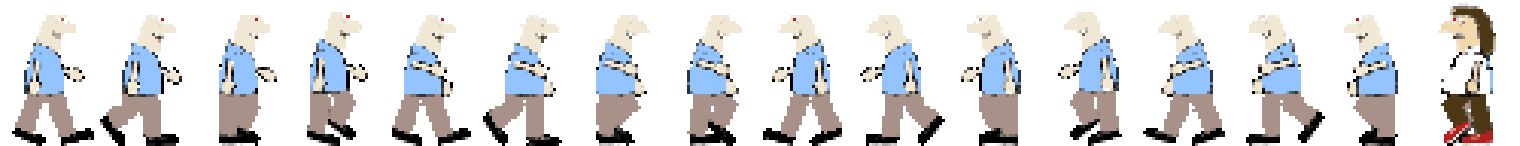
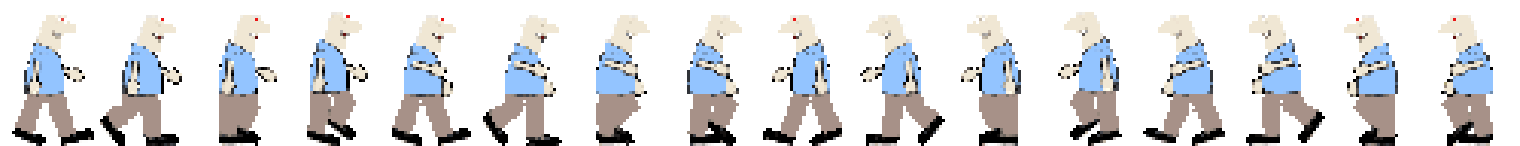
granne nu med patrullering

Changed region(s): [[0.9276, 0.0274, 0.9895, 1.0]]

diff --git a/DrunkiBoy/DrunkiBoy/Level/Enemies/AngryNeighbour.cs b/DrunkiBoy/DrunkiBoy/Level/Enemies/AngryNeighbour.cs
@@ -9,24 +9,46 @@ namespace DrunkiBoy
 {
     class AngryNeighbour : Enemy
     {
-        private int speed = 80;
-
+        private int speed = 100;
+        private bool facingRight;
         public AngryNeighbour(Vector2 pos, Texture2D tex, Rectangle srcRect, bool isActive, int nrFrames, double frameInterval)
             : base(pos, tex, srcRect, isActive, nrFrames, frameInterval)
         {
             this.type = "angryNeighbour";
 
             health = 2;
+            movement.X = 1;
+            movement.Y = 0;
         }
         public override void Update(GameTime gameTime)
         {
-            pos.X += (float)gameTime.ElapsedGameTime.TotalSeconds * speed;
-            if (activePlatform != null && pos.X >= activePlatform.pos.X)
+            pos += (float)gameTime.ElapsedGameTime.TotalSeconds * movement * speed;
+            if (activePlatform != null && (pos.X >= activePlatform.pos.X + activePlatform.BoundingBox.Width - 57 || pos.X <= activePlatform.pos.X))
             {
-                speed -= -1;
+                movement.X *= -1;
+                facingRight = !facingRight;
             }
             base.Update(gameTime);
             AddGravity();
-        }      
+            CheckIfOnPlatform();
+            if (facingRight)
+            {
+                facing = 0;
+            }
+            else
+            {
+                facing = 1;
+            }
+        }
+        private void CheckIfOnPlatform()
+        {
+            if (activePlatform != null)
+            {
+                if (!(BottomBoundingBox.Intersects(activePlatform.TopBoundingBox)))
+                {
+                    activePlatform = null;
+                }
+            }
+        }
     }
 }

diff --git a/DrunkiBoy/DrunkiBoy/Level/AnimatedObject.cs b/DrunkiBoy/DrunkiBoy/Level/AnimatedObject.cs
@@ -48,18 +48,5 @@ namespace DrunkiBoy
         {
             movement.Y += 0.6f;
         }
-        
-        /// <summary>
-        /// Returns true when object is outside of the visible screen
-        /// </summary>
-        /// <returns></returns>
-        //public bool OutOfBounds()
-        //{
-        //    if (pos.X < -(Game1.windowWidth / 2) + srcRect.Width || pos.X > Level.currentLevel.levelLength - srcRect.Width || pos.Y > Game1.windowHeight / 2) //Level ännu inte skapad
-        //    {
-        //        return true;
-        //    }
-        //    return false;
-        //}
     }
 }

diff --git a/DrunkiBoy/DrunkiBoy/Level/Items/ItemManager.cs b/DrunkiBoy/DrunkiBoy/Level/Items/ItemManager.cs
@@ -442,7 +442,7 @@ namespace DrunkiBoy
 
                 foreach (AngryNeighbour an in angryNeighbours)
                 {
-                    if (an.activePlatform == null)
+                    if (an.movement.Y > 0)
                     {
                         if (an.BottomBoundingBox.Intersects(platform.TopBoundingBox))// && !enemy.isKilled)
                         {
